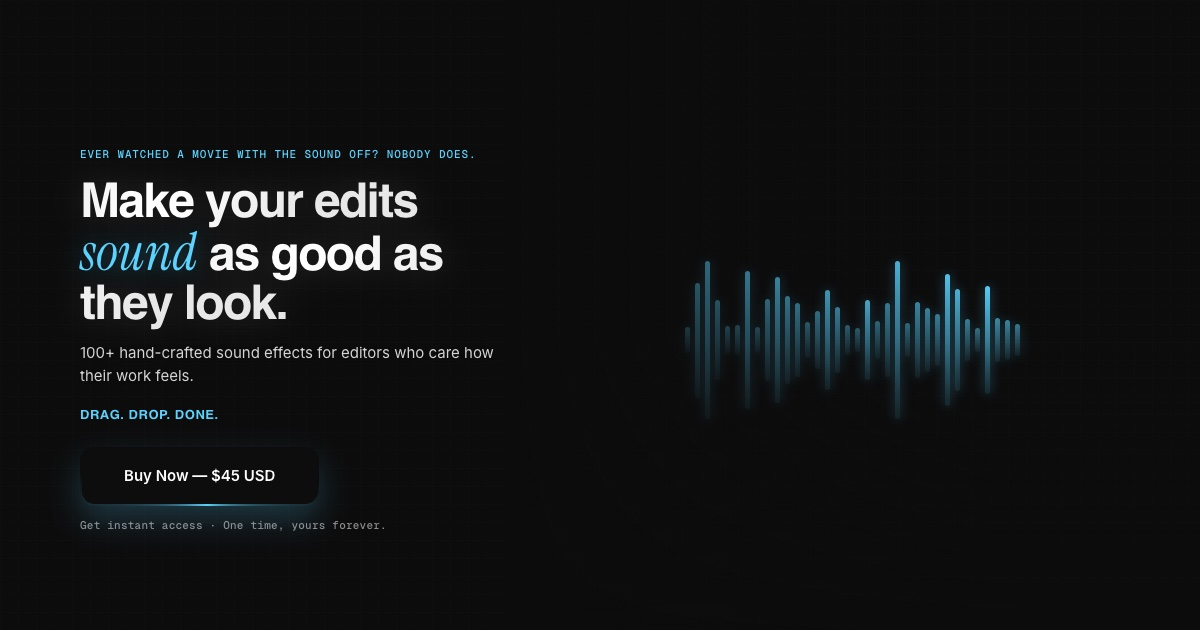
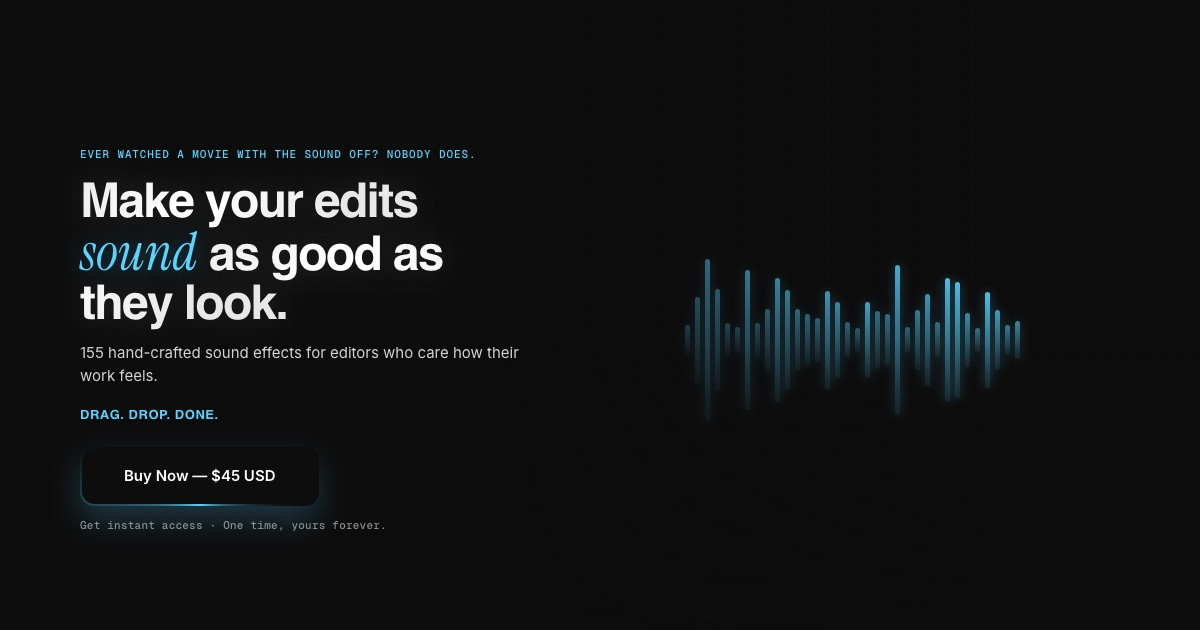
SFX page: update to final pack (155 sounds, 24-bit/48kHz WAV)
- 100+ -> 155 across hero, trust bar, intro, about stat, buy bar, meta
- add '24-bit / 48kHz WAV' to intro + FAQ
- re-capture social preview screenshot with new copy

diff --git a/sfx/index.html b/sfx/index.html
@@ -8,14 +8,14 @@
   <meta property="og:type" content="website">
   <meta property="og:url" content="https://shop.artzenmedia.com/sfx">
   <meta property="og:title" content="Creator SFX Collection — Artzen Media">
-  <meta property="og:description" content="100+ hand-crafted sound effects for editors who care how their work feels.">
+  <meta property="og:description" content="155 hand-crafted sound effects for editors who care how their work feels.">
   <meta property="og:image" content="https://shop.artzenmedia.com/assets/og-sfx.jpg">
   <meta name="twitter:card" content="summary_large_image">
   <meta name="twitter:title" content="Creator SFX Collection — Artzen Media">
-  <meta name="twitter:description" content="100+ hand-crafted sound effects for editors who care how their work feels.">
+  <meta name="twitter:description" content="155 hand-crafted sound effects for editors who care how their work feels.">
   <meta name="twitter:image" content="https://shop.artzenmedia.com/assets/og-sfx.jpg">
   <title>Creator SFX Collection — Artzen Media</title>
-  <meta name="description" content="100+ hand-crafted sound effects for editors who care how their work feels.">
+  <meta name="description" content="155 hand-crafted sound effects for editors who care how their work feels.">
   <link rel="preconnect" href="https://fonts.googleapis.com">
   <link rel="preconnect" href="https://fonts.gstatic.com" crossorigin>
   <link href="https://fonts.googleapis.com/css2?family=Inter:ital,wght@0,400;0,500;0,600;0,700;1,400;1,500&family=Inter+Display:wght@400;500;600;700&family=Geist+Mono:wght@400;500&family=Instrument+Serif:ital@0;1&display=swap" rel="stylesheet">
@@ -747,7 +747,7 @@
     <div class="hero__text fu on">
       <p class="hero__eyebrow">Ever watched a movie with the sound off? Nobody does.</p>
       <h1 class="hero__title"><span class="shimmer-text">Make your edits </span><span class="hero__word-fx">sound</span><span class="shimmer-text"> as good as they look.</span></h1>
-      <p class="hero__desc">100+ hand-crafted sound effects for editors who care how their work feels.</p>
+      <p class="hero__desc">155 hand-crafted sound effects for editors who care how their work feels.</p>
       <div class="hero__drag">Drag. Drop. Done.</div>
       <div class="hero__cta">
         <a class="btn btn-primary" href="https://buy.polar.sh/polar_cl_UxK6g5gBIvvKKwq0rT0IrrUqb3Q9YL5LlYMrl39O8n7">Buy Now — $45 USD</a>
@@ -763,7 +763,7 @@
   <!-- ══ TRUST BAR ══ -->
   <div class="trust-bar">
     <div class="trust-bar__inner">
-      <div class="trust-bar__item"><div class="trust-bar__number">100+</div><div class="trust-bar__label">Sounds</div></div>
+      <div class="trust-bar__item"><div class="trust-bar__number">155</div><div class="trust-bar__label">Sounds</div></div>
       <div class="trust-bar__item"><div class="trust-bar__number">Instant</div><div class="trust-bar__label">Download</div></div>
       <div class="trust-bar__item"><div class="trust-bar__number">Lifetime</div><div class="trust-bar__label">Access</div></div>
       <div class="trust-bar__item"><div class="trust-bar__number">Commercial</div><div class="trust-bar__label">Use</div></div>
@@ -794,7 +794,7 @@
     <div class="included-header fu">
       <p class="section-label">What You Get</p>
       <h2 class="section-title">One pack. Curated. <em>Done.</em></h2>
-      <p class="included-intro">The Creator SFX Collection is built from sounds I actually use. Not sounds I found once and forgot about. Years of digging through every free and paid library out there, keeping only what works and cutting everything that doesn't. What's left is 100+ sounds across 14 categories.</p>
+      <p class="included-intro">The Creator SFX Collection is built from sounds I actually use. Not sounds I found once and forgot about. Years of digging through every free and paid library out there, keeping only what works and cutting everything that doesn't. What's left is 155 sounds across 14 categories, all exported as 24-bit / 48kHz WAV.</p>
     </div>
     <div class="included-grid">
       <div class="included-card fu">
@@ -942,7 +942,7 @@
         <div class="about-stats">
           <div class="stat"><div class="stat-num">162K</div><div class="stat-label">Creators watching</div></div>
           <div class="stat"><div class="stat-num">10Y</div><div class="stat-label">In the editing room</div></div>
-          <div class="stat"><div class="stat-num">100+</div><div class="stat-label">Sounds curated</div></div>
+          <div class="stat"><div class="stat-num">155</div><div class="stat-label">Sounds curated</div></div>
         </div>
       </div>
     </div>
@@ -957,7 +957,7 @@
     <div class="faq__list">
       <div class="faq__item open">
         <button class="faq__question" onclick="toggleFaq(this)">Will these work in my editor?<span class="faq__icon"><svg viewBox="0 0 24 24"><path d="M12 5v14M5 12h14"/></svg></span></button>
-        <div class="faq__answer">Yes. They're standard .WAV files, so they drop straight into Premiere Pro, Final Cut, DaVinci Resolve, CapCut — anything with a timeline.</div>
+        <div class="faq__answer">Yes. They're standard 24-bit / 48kHz .WAV files, so they drop straight into Premiere Pro, Final Cut, DaVinci Resolve, CapCut — anything with a timeline.</div>
       </div>
       <div class="faq__item">
         <button class="faq__question" onclick="toggleFaq(this)">How do I get the pack after buying?<span class="faq__icon"><svg viewBox="0 0 24 24"><path d="M12 5v14M5 12h14"/></svg></span></button>
@@ -1005,7 +1005,7 @@
 
   <!-- ══ FLOATING BUY BAR ══ -->
   <div class="buy-bar" id="buyBar">
-    <div class="buy-bar__text">Creator SFX Collection <span>· 100+ sounds</span></div>
+    <div class="buy-bar__text">Creator SFX Collection <span>· 155 sounds</span></div>
     <a class="btn btn-primary" href="https://buy.polar.sh/polar_cl_UxK6g5gBIvvKKwq0rT0IrrUqb3Q9YL5LlYMrl39O8n7">Get the pack — $45</a>
   </div>
 